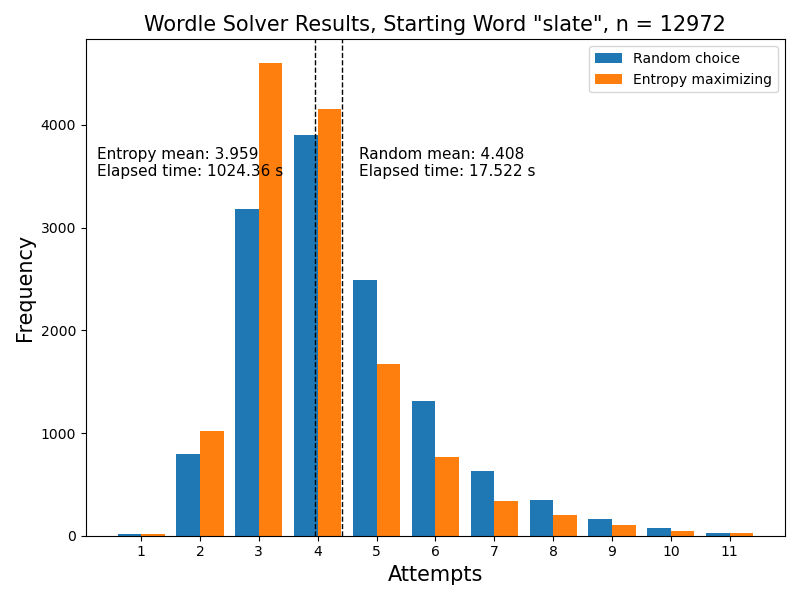
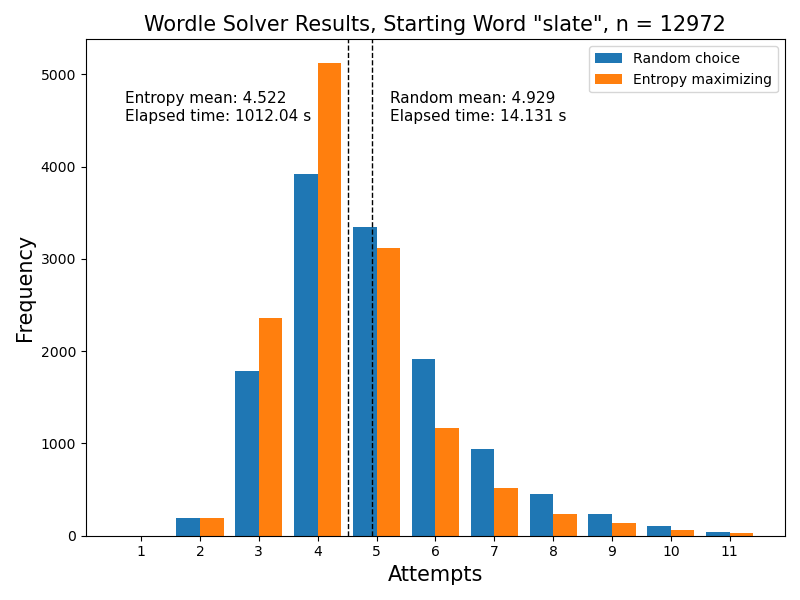
Updated plots, plotter, and tester

diff --git a/testing/plot.py b/testing/plot.py
@@ -2,11 +2,11 @@ from pathlib import Path
 import matplotlib.pyplot as plt
 import numpy as np
 
-random_data = np.genfromtxt(Path("./test_data/full_random_data.csv"), delimiter = ',')
+random_data = np.genfromtxt(Path("./test_data/random_data.csv"), delimiter = ',')
 random_time = random_data[-1]
 random_data = random_data[:-1] 
 
-entropy_data = np.genfromtxt(Path("./test_data/full_entropy_data.csv"), delimiter = ',')
+entropy_data = np.genfromtxt(Path("./test_data/entropy_data.csv"), delimiter = ',')
 entropy_time = entropy_data[-1]
 entropy_data = entropy_data[:-1] 
 
@@ -14,7 +14,7 @@ data = [random_data, entropy_data]
 labels = ["Random choice", "Entropy maximizing"]
 
 fig, ax = plt.subplots(figsize = (8,6))
-n_bins = 11
+n_bins = 8
 plt.hist(data, bins = np.arange(1, n_bins + 2)-0.5, label = labels)
 
 plt.title(f"Wordle Solver Results, Starting Word \"slate\", n = {len(random_data)}", fontsize = 15)
@@ -25,13 +25,13 @@ plt.legend()
 
 random_mean = np.mean(random_data)
 plt.axvline(random_mean, c = 'k', ls = '--', lw = 1)
-plt.text(random_mean + 0.3, 3500, f"Random mean: {random_mean:.3f}\nElapsed time: {random_time} s", 
+plt.text(random_mean + 0.7, 800, f"Random mean: {random_mean:.3f}\nElapsed time: {random_time} s", 
          transform = ax.transData, fontsize =11)
 
 entropy_mean = np.mean(entropy_data)
 plt.axvline(entropy_mean, c = 'k', ls = '--', lw = 1)
-plt.text(entropy_mean - 3.7, 3500, f"Entropy mean: {entropy_mean:.3f}\nElapsed time: {entropy_time} s", 
+plt.text(entropy_mean - 2.8, 800, f"Entropy mean: {entropy_mean:.3f}\nElapsed time: {entropy_time} s", 
          transform = ax.transData, fontsize =11)
 
 plt.tight_layout()
-plt.savefig(Path("./full_plot.png"))
+plt.savefig(Path("./plot.png"))

diff --git a/testing/tester.cpp b/testing/tester.cpp
@@ -74,8 +74,8 @@ int main(int argc, const char** argv) {
         words.push_back(word); 
     }
 
-    test_strategy("slate", words, "./test_data/random_data.csv", randomly_choose_word);
-    test_strategy("slate", words, "./test_data/entropy_data.csv", find_max_entropy);
+    test_strategy("slate", words, "./test_data/full_random_data.csv", randomly_choose_word);
+    test_strategy("slate", words, "./test_data/full_entropy_data.csv", find_max_entropy);
 
     return 0;
 }
